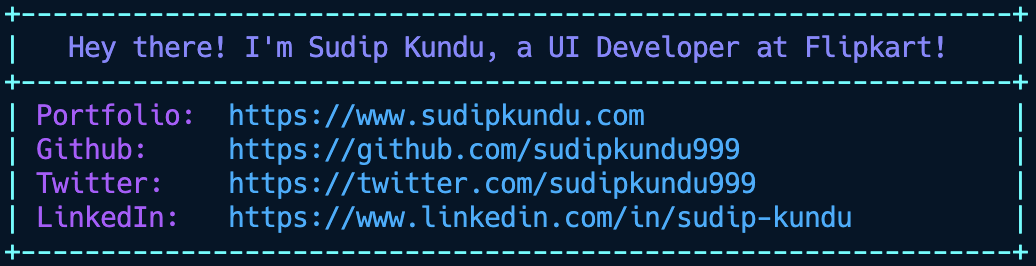
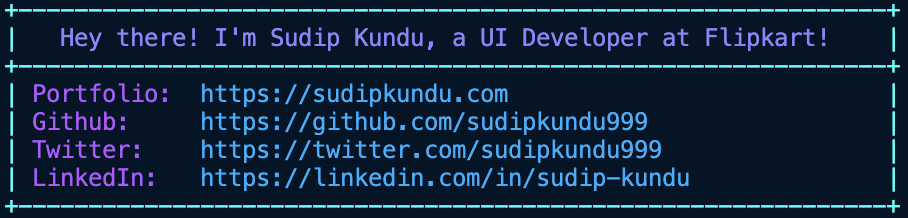
Release v1.1.0

diff --git a/index.js b/index.js
@@ -2,20 +2,20 @@
 
 function logDetails() {
   const message = "Hey there! I'm Sudip Kundu, a UI Developer at Flipkart!";
-  const twitter = "https://twitter.com/sudipkundu999";
-  const github = "https://github.com/sudipkundu999";
-  const linkedin = "https://www.linkedin.com/in/sudip-kundu";
-  const portfolio = "https://www.sudipkundu.com";
-    const colorfulBox = `    \x1b[38;5;51m+--------------------------------------------------------------+
+  const twitter = 'https://twitter.com/sudipkundu999';
+  const github = 'https://github.com/sudipkundu999';
+  const linkedin = 'https://linkedin.com/in/sudip-kundu';
+  const portfolio = 'https://sudipkundu.com';
+  const colorfulBox = `    \x1b[38;5;51m+--------------------------------------------------------------+
     |   \x1b[38;5;105m${message}\x1b[38;5;51m    |
     +--------------------------------------------------------------+
-    | \x1b[38;5;93mPortfolio:\x1b[0m  \x1b[38;5;39m${portfolio}                       \x1b[38;5;51m|
+    | \x1b[38;5;93mPortfolio:\x1b[0m  \x1b[38;5;39m${portfolio}                           \x1b[38;5;51m|
     | \x1b[38;5;93mGithub:\x1b[0m     \x1b[38;5;39m${github}                 \x1b[38;5;51m|
     | \x1b[38;5;93mTwitter:\x1b[0m    \x1b[38;5;39m${twitter}                \x1b[38;5;51m|
-    | \x1b[38;5;93mLinkedIn:\x1b[0m   \x1b[38;5;39m${linkedin}          \x1b[38;5;51m|
+    | \x1b[38;5;93mLinkedIn:\x1b[0m   \x1b[38;5;39m${linkedin}              \x1b[38;5;51m|
     +--------------------------------------------------------------+\x1b[0m`;
-  
-    console.log(colorfulBox);
-  }
+
+  console.log(colorfulBox);
+}
 
 logDetails();

diff --git a/README.md b/README.md
@@ -1,4 +1,4 @@
-Hey there! I'm Sudip Kundu and this is my first npm package!
+## Hey there! I'm [Sudip Kundu](https://www.sudipkundu.com) & this is my first npm package!
 
 Run this in your terminal
 
